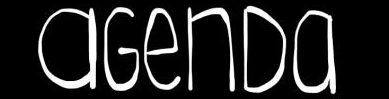
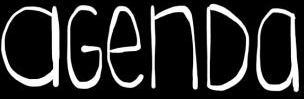
improve header

diff --git a/components/Header/Header.tsx b/components/Header/Header.tsx
@@ -10,9 +10,7 @@ import { cn } from "@/lib/utils";
 function Title() {
   return (
     <Link href={`/`}>
-      <h1 className="w-full py-2 text-center text-4xl font-thin uppercase">
-        Le Chair de Poule
-      </h1>
+      <LogoSite className="mx-auto w-1/2 pb-2 pt-4" />
     </Link>
   );
 }
@@ -29,13 +27,13 @@ export default function Header({ variant }: { variant?: "relative" }) {
         <LogoSite className="mx-auto w-1/2 pb-2 pt-4" />
       </Link>
       <nav>
-        <ul className="flex cursor-pointer items-center justify-center gap-4 pt-4 text-sm font-light uppercase">
+        <ul className="flex items-center justify-center gap-4 pt-4 text-sm font-light uppercase">
           <li>
             <Link href={`/`}>
               <Image
                 src={AgendaPNG}
                 alt="Agenda"
-                className="w-24 sm:w-40"
+                className="h-6 object-contain landscape:h-10"
                 role="button"
               />
               <span className="sr-only">Agenda</span>
@@ -47,7 +45,7 @@ export default function Header({ variant }: { variant?: "relative" }) {
                 <Image
                   src={DrugstorePNG}
                   alt="Drugstore"
-                  className="w-24 sm:w-40"
+                  className="h-6 object-contain landscape:h-10"
                   role="button"
                 />
                 <span className="sr-only">Drugstore</span>
@@ -59,7 +57,7 @@ export default function Header({ variant }: { variant?: "relative" }) {
               <Image
                 src={ContactPNG}
                 alt="Contact"
-                className="w-24 sm:w-40"
+                className="h-6 object-contain landscape:h-10"
                 role="button"
               />
               <span className="sr-only">Contact</span>
@@ -70,7 +68,7 @@ export default function Header({ variant }: { variant?: "relative" }) {
               <Image
                 src={ForumPNG}
                 alt="Forum"
-                className="w-24 sm:w-40"
+                className="h-6 object-contain landscape:h-10"
                 role="button"
               />
               <span className="sr-only">Forum</span>

diff --git a/app/(auth)/layout.tsx b/app/(auth)/layout.tsx
@@ -5,7 +5,7 @@ export default function AdminLayout({ children }: { children: ReactNode }) {
   return (
     <>
       <Header.Title />
-      <main className="row-span-2 flex w-full flex-col place-content-center items-center justify-center overflow-y-scroll border-l border-r border-neutral-700 sm:max-w-2xl">
+      <main className="row-span-2 flex w-full flex-col place-content-center items-center justify-center overflow-y-scroll sm:max-w-2xl">
         {children}
       </main>
     </>

diff --git a/app/(auth)/sign-in/page.tsx b/app/(auth)/sign-in/page.tsx
@@ -152,7 +152,7 @@ export default function SignInPage() {
         >
           Confirmation de l&apos;email
         </h2>
-        <p className="px-40 text-center font-light leading-4">
+        <p className="px-4 text-center font-light leading-6 landscape:px-40">
           Pour confirmer votre inscription, vous devez rentrer le numéro de
           validation reçu par email.
         </p>
